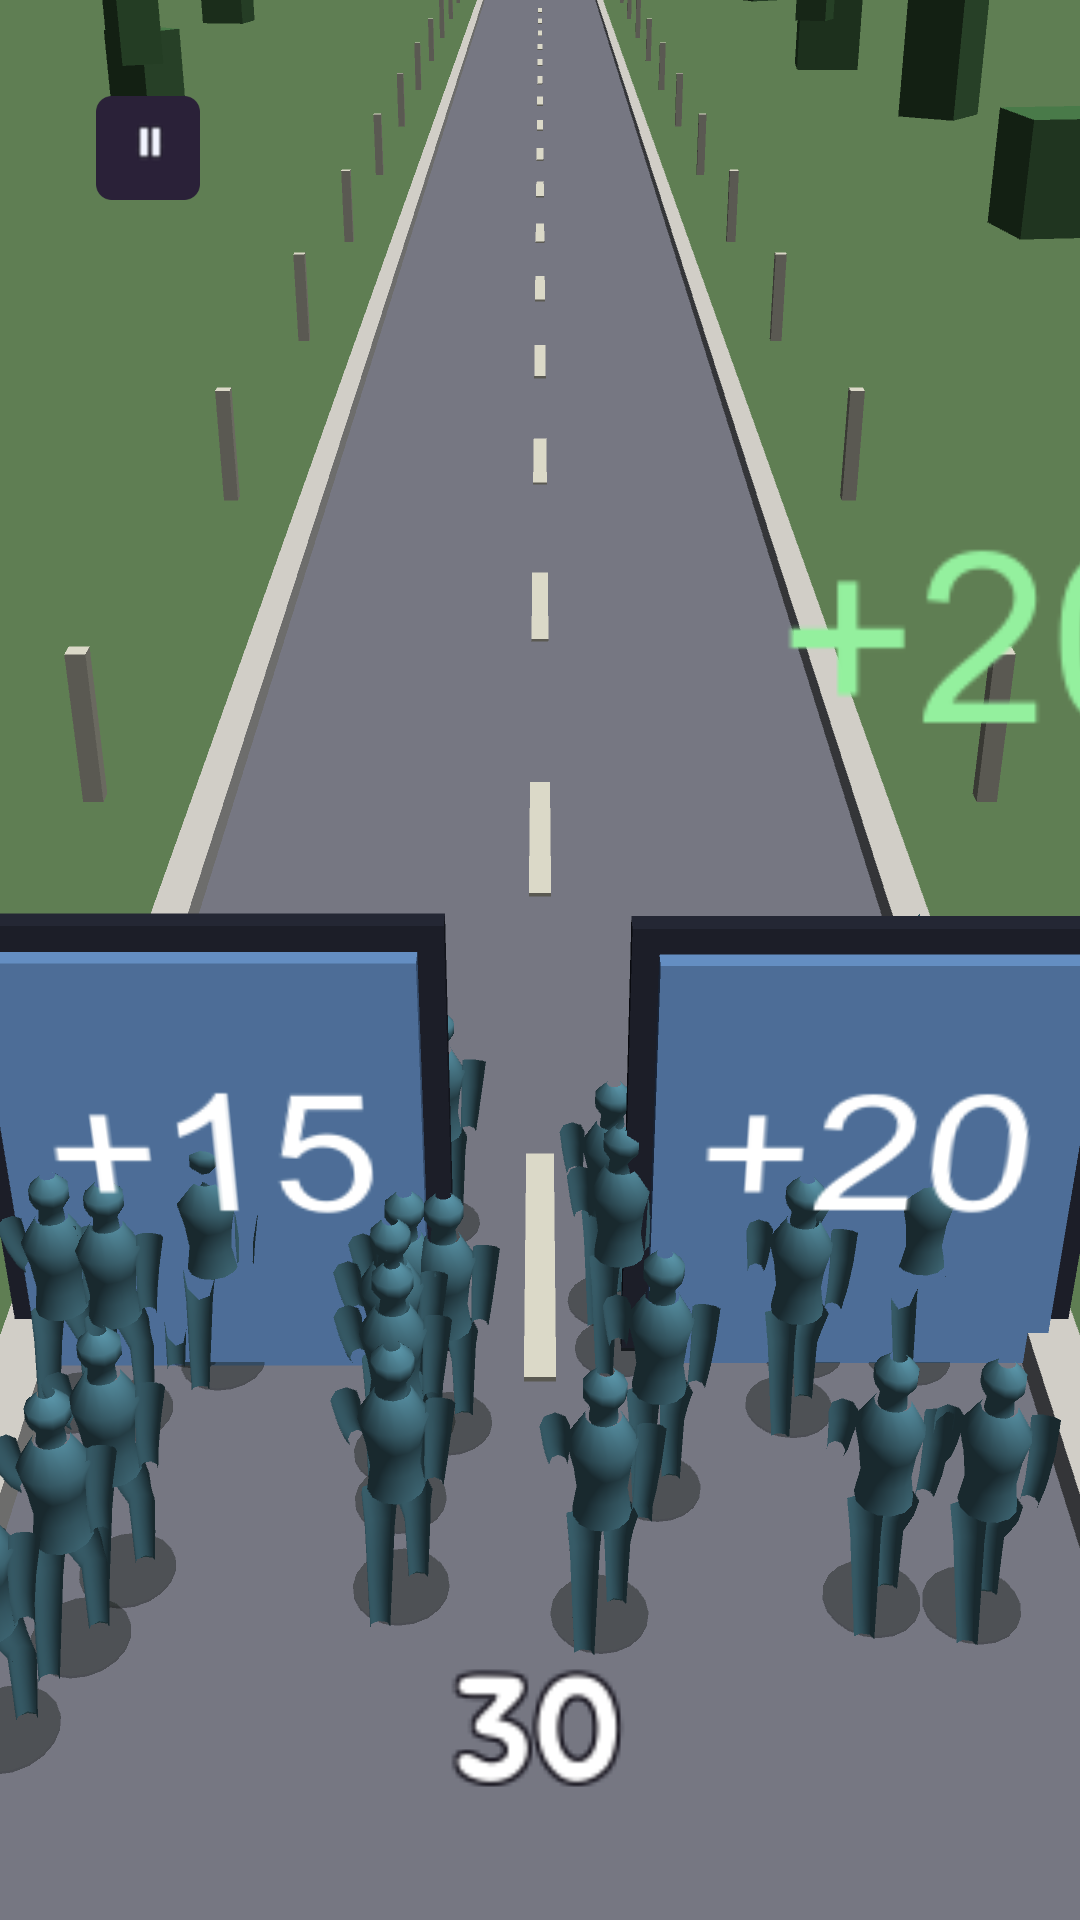
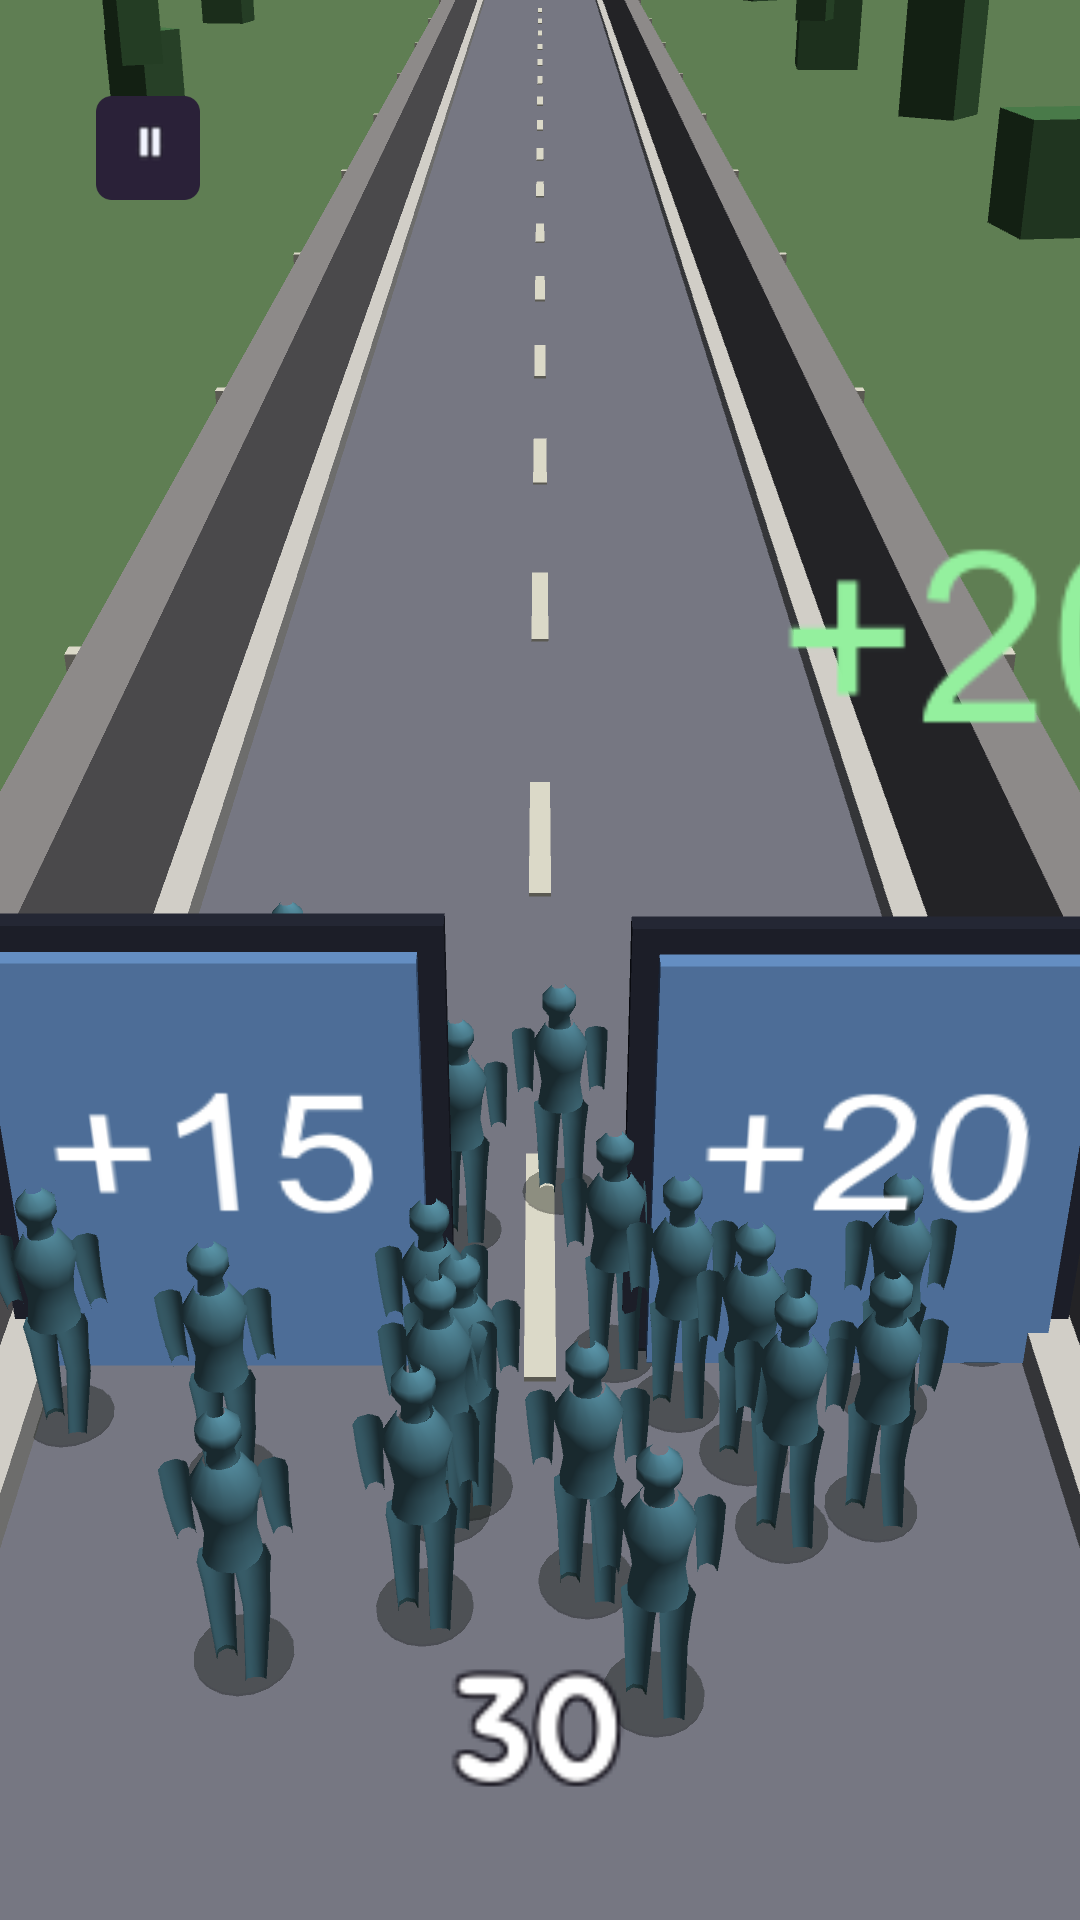
feat: play it for real, and close the corridor with walls
오너: "너가 유니티 켜서 플레이해봐" · "탑워 게임 잘 분석해서 만들어줘"

## 실제로 조작하며 한 판을 끝까지

배치 모드엔 Input 이 없다 — 마우스도 터치도. 그래서 지금까지 찍은 화면은 전부
**아무도 안 만진 판**이었다. targetX = 0 이면 한가운데 직진이고, 그건 게임이
아니라 게임의 한 단면이다.

LevelRunner 에 시험용 구멍(TargetX)을 내고 손가락을 넣었다. 고르는 규칙은
Sim.Apply 로 두 선택지를 실제로 계산해 더 많이 주는 쪽 — "큰 수가 좋다" 는
이 게임에서 틀린 규칙이라(+10 과 x3 중 무엇이 큰지는 지금 병력에 달렸다)
짐작을 안 넣었다.

  10 -> +20 선택 -> 30 -> 적 30 과 교전 -> 18 로 클리어
  tools/sim 의 1-1 R=18 과 같다

9 m 마다 한 장씩 docs/shots/play/ 에 열한 장. 한 장으로는 "시작은 괜찮은데
중간이 어떤지" 를 모른다 — 오늘 그걸로 두 번 틀렸다.

## 조작하는 판을 보니 바로 결함이 하나

**군중이 벽을 뚫고 지나갔다.** 시뮬의 X 는 군단의 중심이고 ±길폭/2 까지 가는데,
대형이 거기서 또 퍼지니 가장자리 사람이 길 밖이다. 벽을 세우기 전에는 풀밭을
걸을 뿐이라 **안 보였다.**

시뮬은 안 고친다 — 규칙상 중심이 ±길폭/2 인 것이 맞다. 보이는 몸만 길 안으로
당긴다.

## 탑워 광고 분석 (docs/REF_TOPWAR.md)

가져오는 것은 구조와 수식, 안 가져오는 것은 이름·로고·아트(해골·던전).
게임 메커니즘은 저작권 대상이 아니고 이 광고 형식은 수십 개 게임이 공유한다.

광고와 다른 것 셋 중 **벽(③)만 여기서** 한다:
  ① 수의 자릿수 (666 / +99 vs 우리 두 자리) — 레벨
  ② 게이트가 복도를 따라 줄지어 — 레벨 문법. 간판만 늘리면 화면이 규칙보다
     넓게 말하는 것이고 그건 오늘 1-7 에서 고친 그 결함이다
  ③ 벽으로 닫힌 복도 — 열린 길은 "어디로" 는 말해도 "갇혀 있다" 를 못 한다

6/6 통과 · 웹 빌드 10 MB

diff --git a/Assets/Tests/PlayMode/MetaShotTests.cs b/Assets/Tests/PlayMode/MetaShotTests.cs
@@ -784,6 +784,94 @@ namespace CrowdRunner.Tests
         }
 
         /// <summary>
+        /// **한 판을 실제로 조작하며 끝까지 간다** — 그리고 그 과정을 필름처럼 찍는다.
+        ///
+        /// 오너: *"너가 유니티 켜서 플레이해봐."* 맞는 지적이다. 지금까지 찍은 것은 전부
+        /// **아무도 안 만진 판**이었다 — 배치 모드에는 `Input` 이 없으니 `targetX` 가 늘 0 이고,
+        /// 그건 **한가운데로 직진**하는 판이다. 그러니까 지금까지 본 것은 *게임* 이 아니라
+        /// **게임의 한 단면**이었다.
+        ///
+        /// 여기서는 손가락을 넣는다 (`LevelRunner.TargetX`). 고르는 규칙은 단순하다:
+        /// **앞의 게이트에서 더 많이 주는 쪽으로 간다** — `Sim.Apply` 로 두 선택지를 실제로
+        /// 계산해서 고르므로, *"큰 수가 좋다"* 같은 짐작이 안 들어간다.
+        ///
+        /// 그리고 **여러 장을 찍는다.** 한 장으로는 *시작은 괜찮은데 중간이 어떤지* 를 모른다 —
+        /// 오늘 그걸로 두 번 틀렸다(중반만 찍어서 시작이 빈 것을 몰랐고, 군중 사진만 찍어서
+        /// 사람에게 팔다리가 없는 것을 몰랐다).
+        /// </summary>
+        [UnityTest, Timeout(600000)]
+        public IEnumerator Plays_A_Level_And_Films_It()
+        {
+            var lv = LevelCatalog.Find("1-1");
+            Assert.IsNotNull(lv, "1-1 을 목록에서 못 찾았다");
+            flow.StartLevel(lv);
+            yield return null;
+            yield return null;
+
+            var runner = GameBoot.Runner;
+            Assert.IsNotNull(runner.Sim, "1-1 을 못 띄웠다 — " + runner.Error);
+            Directory.CreateDirectory(Dir + "/play");
+
+            float prev = Time.timeScale;
+            Time.timeScale = 30f;
+            int shot = 0, frame = 0;
+            float nextShotZ = 0f;
+            const float ShotEvery = 9f;      // m — 110 m 짜리 판에서 열두 장쯤
+
+            while (frame++ < 30000 && runner.Sim != null
+                   && runner.Sim.State != SimState.Won && runner.Sim.State != SimState.Lost)
+            {
+                runner.TargetX = PickLane(runner);
+
+                if (runner.Sim.Z >= nextShotZ && shot < 14)
+                {
+                    Time.timeScale = 1f;      // 찍는 동안은 멈춰 세운다 — 흐린 프레임을 안 남긴다
+                    yield return null;
+                    var s = runner.Sim;
+                    ShotWorld($"play/{shot:00}", runner);
+                    Debug.Log($"[CR-TEST] 플레이 {shot:00}: z {s.Z:F0}m · 병력 {s.Units} · " +
+                              $"x {s.X:+0.0;-0.0} · {s.State}");
+                    shot++;
+                    nextShotZ += ShotEvery;
+                    Time.timeScale = 30f;
+                }
+                yield return null;
+            }
+            Time.timeScale = prev;
+
+            var fin = runner.Sim;
+            Debug.Log($"[CR-TEST] 플레이 끝: {fin.State} · 남은 병력 {fin.Units} · " +
+                      $"{frame} 프레임 · 사진 {shot} 장");
+            Assert.AreNotEqual(SimState.Running, fin.State, "판이 안 끝났다 — 30,000 프레임을 돌고도");
+        }
+
+        /// <summary>
+        /// **앞의 게이트에서 더 많이 주는 쪽.** `Sim.Apply` 로 둘을 실제로 계산해서 고른다 —
+        /// *"큰 수가 좋다"* 는 이 게임에서 틀린 규칙이다(`+10` 과 `×3` 중 무엇이 큰지는 지금
+        /// 병력에 달렸다). 게이트가 없으면 가운데로 돌아온다.
+        /// </summary>
+        static float PickLane(LevelRunner runner)
+        {
+            var sim = runner.Sim;
+            var lv = runner.Level;
+            float best = 0f, bestZ = float.MaxValue;
+            foreach (var e in lv.events)
+            {
+                if (e.kind != EventKind.Gate || e.z < sim.Z - 1f || e.z > bestZ) continue;
+                bestZ = e.z;
+                float top = float.MinValue;
+                foreach (var o in e.options)
+                {
+                    float after = Sim.Apply(sim.Units, o.op, o.value);
+                    if (after <= top) continue;
+                    top = after;
+                    best = o.lane * lv.roadWidth * 0.35f;
+                }
+            }
+            return best;
+        }
+
+        /// <summary>
         /// **시작하는 순간을 찍는다** — 오너가 보는 첫 화면.
         ///
         /// 지금까지 게임 화면을 **군단이 67 명일 때** 찍었다. 그 그림은 길이 꽉 차서

diff --git a/Assets/_Game/Scripts/Game/LevelView.cs b/Assets/_Game/Scripts/Game/LevelView.cs
@@ -32,7 +32,7 @@ namespace CrowdRunner.View
         LevelRunner runner;
         CrowdField allies, foes;
         VatCrowd allyView, foeView;
-        Transform road, wall, divider, ground, curbL, curbR;
+        Transform road, wall, divider, ground, curbL, curbR, wallL, wallR;
         Transform[] gates = new Transform[0];
         /// <summary>게이트 네모마다의 **z 와 차선** — 지났을 때 *어느 것이 고른 것인지* 를
         /// 찾으려면 필요하다. `Transform.position` 에서 되읽지 않는 이유: 연출이 그 위치를
@@ -123,6 +123,15 @@ namespace CrowdRunner.View
             // 밝아서 길의 폭이 한눈에 읽힌다 — 폭이 좁아지는 구간이 눈에 걸려야 한다
             curbL = Box("Curb", new Color(0.92f, 0.90f, 0.84f));
             curbR = Box("Curb", new Color(0.92f, 0.90f, 0.84f));
+
+            // **벽으로 닫는다** (`docs/REF_TOPWAR.md` §2③). 들판 가운데 열린 길은 *어디로
+            // 가야 하는지* 는 말하지만 **갇혀 있다** 는 말을 못 한다. 벽이 서면 좌우가 끝이라는
+            // 것이 모양으로 읽히고, 군중이 벽에 닿는 것이 *꽉 찼다* 를 만든다 — 참고한 광고에서
+            // 군중이 **벽에서 벽까지** 차 있는 것이 그 장르의 핵심 그림이다.
+            //
+            // 길보다 **밝게** 둔다: 어두우면 화면 양끝이 검은 띠가 되어 세로 화면이 더 좁아 보인다
+            wallL = Box("Wall", new Color(0.62f, 0.60f, 0.58f));
+            wallR = Box("Wall", new Color(0.62f, 0.60f, 0.58f));
         }
 
         /// <summary>`LevelRunner` 가 레벨을 띄운 뒤 부른다 — 게이트·지역·벽을 레벨대로 세운다</summary>
@@ -188,6 +197,13 @@ namespace CrowdRunner.View
             curbR.localScale = curbL.localScale;
             curbL.position = new Vector3(-half, 0.12f, sim.Z + 36f);
             curbR.position = new Vector3(+half, 0.12f, sim.Z + 36f);
+
+            // 벽은 연석 **바깥**에 선다. 높이 2.6 m 는 사람(1.86)보다 높아 *넘을 수 없다* 로
+            // 읽히고, 카메라가 10 m 높이라 복도 안이 다 보인다 — 더 높이면 길을 가린다
+            wallL.localScale = new Vector3(0.6f, 2.6f, 190f);
+            wallR.localScale = wallL.localScale;
+            wallL.position = new Vector3(-half - 0.45f, 1.3f, sim.Z + 36f);
+            wallR.position = new Vector3(+half + 0.45f, 1.3f, sim.Z + 36f);
 
             Formation(allies, sim.Units, sim.X, sim.Z, w, 0);
             allyView.Sync(allies); allyView.Draw();
@@ -410,7 +426,14 @@ namespace CrowdRunner.View
             // 중심을 옮긴다 — 개체마다의 흩어짐은 `CrowdField` 가 만든 것을 그대로 쓴다
             for (int i = 0; i < f.Count; i++)
             {
-                f.X[i] = cx + f.SideTarget[i];
+                // **길 안에 가둔다.** 시뮬의 `X` 는 군단의 **중심**이고 ±길폭/2 까지 간다.
+                // 대형은 거기서 또 퍼지므로 가장자리 사람은 길 밖으로 나간다 — 벽을 세우기
+                // 전에는 안 보였고(풀밭 위를 걸을 뿐이었다), 벽을 세우니 **벽을 뚫고 지나갔다**.
+                //
+                // 시뮬은 안 고친다: 규칙상 중심이 ±길폭/2 인 것이 맞다. **보이는 몸만** 길 안으로
+                // 당긴다 — 표현이 규칙보다 넓게 말하지 않게 하는 쪽이다
+                float lim = w * 0.5f - 0.35f;
+                f.X[i] = Mathf.Clamp(cx + f.SideTarget[i], -lim, lim);
                 // **떼는 깊이가 있어야 떼다.** 3.2 m 로는 한 줄로 서 있고, 그러면 42 명이
                 // 42 명으로 안 읽힌다 (앞줄만 보인다). 뒤로 늘리면 수가 눈에 쌓인다
                 f.Z[i] = cz + (f.Phase[i] - 0.5f) * depth + (f.SpeedMul[i] - 1f) * depth * 2.1f;

diff --git a/Assets/_Game/Scripts/Game/LevelRunner.cs b/Assets/_Game/Scripts/Game/LevelRunner.cs
@@ -31,6 +31,27 @@ namespace CrowdRunner.Game
         public string Error { get; private set; }
 
         float targetX;
+
+        /// <summary>
+        /// **시험이 손가락 대신 넣는 자리.**
+        ///
+        /// 배치 모드에서는 `Input` 을 흉내 낼 수 없다 — 마우스도 터치도 없다. 그래서 화면을
+        /// 찍는 검사들이 지금까지 **아무도 안 만진 판**만 돌렸고, 그 판은 `targetX = 0` 이라
+        /// 늘 한가운데다. 즉 **실제로 조작했을 때 어떻게 보이는지는 한 번도 안 봤다.**
+        ///
+        /// `ReadDrag` 가 매 프레임 덮어쓰지 않는다(드래그 중일 때만 쓴다)는 것이 이 구멍이
+        /// 성립하는 이유다. 넣어 두면 다음 프레임의 `Step` 이 그 값을 쓴다.
+        /// </summary>
+        internal float TargetX
+        {
+            get => targetX;
+            set
+            {
+                float half = Level != null ? Level.roadWidth * 0.5f : 4f;
+                targetX = Mathf.Clamp(value, -half, half);
+            }
+        }
+
         float accumulator;
         bool dragging;
         float lastPointerX;

diff --git a/docs/REF_TOPWAR.md b/docs/REF_TOPWAR.md
@@ -1,0 +1,54 @@
+# 참고: 탑워 광고 (2026-10-10, 오너 제시)
+
+오너가 유튜브 쇼츠 광고 한 장을 주며 *"이 게임 잘 분석해서 만들어줘"* 라고 했다.
+이 문서는 **그 한 장에서 읽히는 것**과, 우리 게임에 **무엇을 가져오고 무엇을 안 가져오는지**다.
+
+> **가져오는 것은 구조와 수식이다.** 게임 메커니즘은 저작권 대상이 아니고, 이 "군중 러너"
+> 광고 형식은 수십 개 게임이 공유한다. **가져오지 않는 것은 이름·로고·아트 에셋**이다 —
+> 따라 해도 득이 없고 스토어 심사에서 걸린다. 해골·던전도 그 게임의 것이므로 우리 소재로 간다.
+
+---
+
+## 1. 광고에서 읽히는 것
+
+| | 광고 | 지금 우리 |
+|---|---|---|
+| 군중 | **복도를 벽에서 벽까지 채운다.** 수백~수천 | 10 → 67. 길 가운데 작은 덩어리 |
+| 수 | `666` — 세 자리 | 두 자리 |
+| 게이트 | **복도를 따라 줄지어 늘어선다.** 왼쪽 전부 `+1`, 오른쪽 전부 `+99` | 한 지점에 문 두 개 |
+| 공간 | **벽으로 닫힌 복도.** 횃불·통·장식 | 들판 가운데 열린 길 |
+| 표지 | 기둥 위에 올라간 **큰 간판**, 두꺼운 테두리 | 길에 붙은 납작한 판 |
+| 카메라 | 더 높고 멀다 — 복도가 **끝까지** 보인다 | 군단 위주, 앞이 짧다 |
+| 플레이어 | 군단 **뒤에 작은 조종 캐릭터**가 따로 있다 | 군단 자체가 플레이어다 |
+
+## 2. 가장 큰 차이 셋
+
+### ① 수의 자릿수
+
+`666` 과 `+99` 가 한 화면에 있다. **우리는 두 자리다.** 이건 그림 문제가 아니라 **설계
+문제**다 — 수가 커야 `×3` 이 극적이고, 군중이 복도를 채워야 *떼* 로 보인다.
+
+바꾸면 따라오는 것: 렌더 상한(지금 400), 대형 폭(지금 `√n`), 그리고 `M0_CROWD` 의 예산.
+**M0 은 1,000 개체를 쟀다** — 상한 400 은 1-1 의 수가 작아서 둔 것이지 기술 한계가 아니다.
+
+### ② 게이트가 **줄지어** 있다
+
+한 지점에서 한 번 고르는 것이 아니라, **복도를 달리는 내내 한쪽에 붙어 있으면 그쪽
+게이트가 계속 걸린다.** 그래서 `+1` 쪽에 붙으면 천천히 늘고 `+99` 쪽은 빠르게 는다 —
+*고르는 순간* 이 아니라 **머무는 시간**이 보상을 정한다.
+
+> ⚠ **이건 표현이 아니라 규칙이다.** 간판만 여러 개 세우고 게이트는 하나면, 화면이
+> 규칙보다 넓게 말하는 것이고 그건 오늘 1-7 에서 고친 바로 그 결함이다
+> (`LevelView.Zone` 주석). 줄지어 세우려면 **레벨이 실제로 여러 게이트를 가져야** 한다.
+
+### ③ 벽으로 닫힌 복도
+
+들판 가운데 열린 길은 **어디로 가야 하는지** 는 말하지만 **갇혀 있다** 는 말을 못 한다.
+벽이 있으면 좌우가 끝이라는 것이 모양으로 읽히고, 군중이 벽에 닿는 것이 *꽉 찼다* 를 만든다.
+
+## 3. 레인
+
+- **표현(세션 B)**: 복도 벽 · 기둥 위 큰 간판 · 군중이 복도를 채우는 대형 · 카메라 ·
+  렌더 상한
+- **레벨·규칙(세션 A)**: 줄지어 선 게이트 문법 · 시작 병력의 자릿수 · 그에 맞춘 ☣ 기준
+- **안 가져옴**: 이름 · 로고 · 해골/던전 소재 · 광고의 UI 배치
